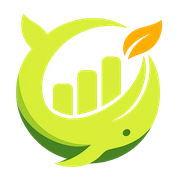
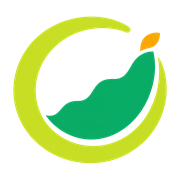
feat(ui): ブランドマークを新デザインへ差し替える
マークが鯨から、ライムのリングに緑のさやと金の葉が載る図案へ変わる。派生
資産はこれまでどおり ui/brand/logo.png 1 枚から導出しているので、変更は
source の差し替えと生成の再実行、そして画像が決めるパレット 2 色の追従で
閉じる。

支給された原画は白背景の不透明 RGB だったので、source の契約に合わせて
背景を落とした。原画はマークが canvas の 83% しか占めておらず、そのまま
入れるとヘッダー画像も launcher アイコンも一様に縮む。マークの bbox を
基準に占有率 95% で正方形に切り直し、現行と同じ見かけの大きさに揃えた。

--brand-green も新マークの緑（#09ab65）へ寄せる。マークのすぐ隣で active
nav の下線を塗る色なので、図案が変わった以上ここだけ旧マークの緑に留まる
理由がない。計測対象に緑を足す案は採らなかった。緑のバンドはマーク次第で
アンチエイリアスの数画素しか含まないことがあり、そのときも dominant_hex
は値を返すので、ノイズが palette の正本になる。加えて --brand-green は
--primary-display 経由で UI アフォーダンスを塗るため、画像が contrast を
決める経路になってしまう。手置きで人のレビューを通す方が安全と判断した。

- tools/generate_brand_assets.py: 不透明な source を load_source で拒否
  する。透過を残す出力はヘッダー画像と favicon の 2 つで、どちらも source
  をそのまま描くため、背景付きの原画はマークの背後に白い箱を出す
- tools/generate_brand_assets.py: source が満たすべき正方形・透過・占有率
  を docstring に明記する

検証: 生成の決定性（2 回実行で 5 資産の SHA-256 一致）、maskable の安全域
80%・apple-touch の完全不透明・favicon の 16/32 フレーム保持、透過な
ヘッダー画像。不透明 source をガードが出力前に弾くことを合成画像で確認。
Chromium で実機表示（マークの実描画・computed token・favicon 配信）と 5
資産のバイト一致、16px までの可読性を目視確認。frontend 179 tests、
oxlint、build、Python 1,744 tests、Ruff、mypy、import-linter。

Refs #657

diff --git a/ui/src/styles.css b/ui/src/styles.css
@@ -91,14 +91,14 @@
        ui/brand/logo.png, so `tools/generate_brand_assets.py` reports the values that
        belong here. Lime is too light to read as text or a control surface — it stays
        display-only, and anything set over it uses --text-primary. */
-    --brand-green: #12b76a;
-    --brand-lime: #d9ef37;
+    --brand-green: #09ab65;
+    --brand-lime: #c7de24;
     --primary-display: var(--brand-green);
     --primary-action: #008755;
     --primary-hover: #006b43;
     --primary-hover-color: var(--primary-hover);
     --primary-soft: #e8faf0;
-    --accent-display: #feae00;
+    --accent-display: #f9a702;
 
     /* Neutral palette carries the layout; brand color carries interaction. */
     --canvas: #f8faf9;

diff --git a/tools/generate_brand_assets.py b/tools/generate_brand_assets.py
@@ -9,6 +9,11 @@ maskable PWA icons and an iOS home-screen icon — each with its own size, paddi
 and transparency rules. Deriving them here keeps the logo a one-file change: swap
 `ui/brand/logo.png`, run this, and the whole set follows.
 
+That source is a square RGBA mark standing on a transparent ground and drawn to fill
+roughly 95% of its canvas. The header image is the source scaled down whole and the
+maskable insets are tuned against that framing, so padding left around the mark shrinks
+it in the header and in every launcher icon at once.
+
 The run also reports the source's own lime and gold, so the palette tokens that
 name those colors (`--brand-lime`, `--accent-display`) can be checked against the
 image they claim to come from rather than against memory.
@@ -69,6 +74,14 @@ def load_source(path: Path) -> Image.Image:
     image = Image.open(path).convert("RGBA")
     if image.width != image.height:
         message = f"source logo must be square, got {image.width}x{image.height}"
+        raise BrandAssetError(message)
+    # The header image and the favicon are the two outputs that keep their transparency, and
+    # both are drawn straight from the source. Artwork delivered as a render still carries the
+    # background it was composited on, which would paint a square behind the mark on every
+    # surface those two land on — and nothing downstream can tell that from a mark meant to be
+    # opaque. Refuse it here instead, where the fix is to cut the background out.
+    if image.getchannel("A").getextrema()[0] > 0:
+        message = f"source logo stands on no transparent ground: {display(path)}"
         raise BrandAssetError(message)
     return image
 
